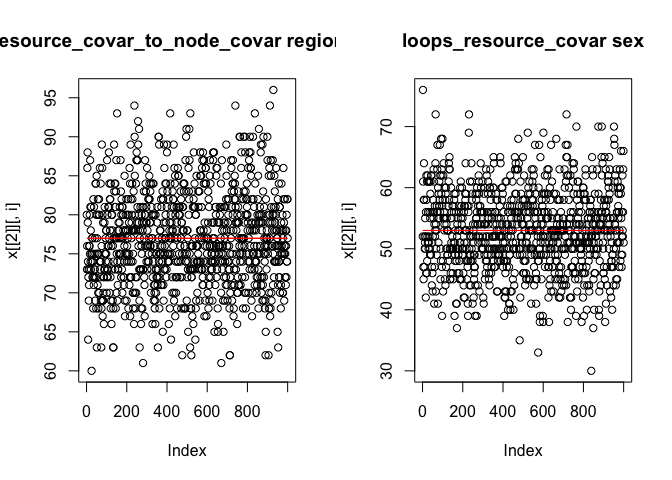
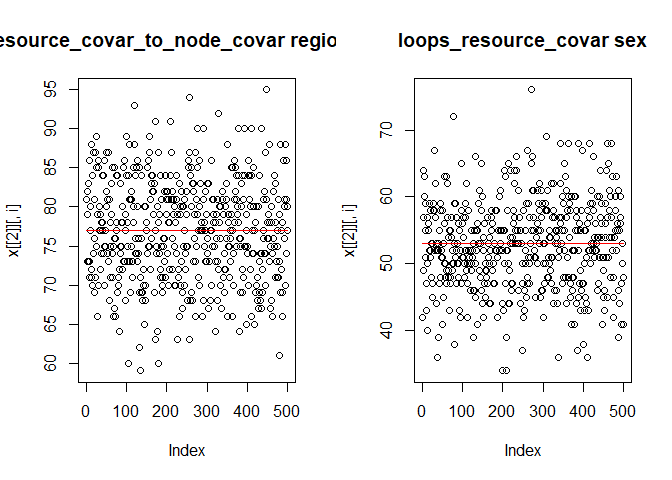
update README

diff --git a/README.md b/README.md
@@ -21,7 +21,7 @@ version](https://osf.io/preprints/socarxiv/n86rx/).
 
 The model allows for the analysis of emergent structures (known from
 network analysis) in mobility tables, alongside exogenous predictors. It
-combined features from classical log-linear models for mobility tables
+combines features from classical log-linear models for mobility tables
 and Exponential Random Graph Models (ERGMs). In the absence of emergent
 structures, the models reduces to the former, when ignoring
 characteristics of individuals, it is an ERGM for weighted networks.
@@ -32,7 +32,7 @@ Announcements about workshops etc. can be found
 # Warning!!!
 
 The package is still under development, especially the documentation.
-When using the package you might encounter bugs or errors, or you might
+When using the package, you might encounter bugs or errors, or you might
 not be able to do what you want. In that case please write the package
 maintainer under his institutional email address (requires using
 google).
@@ -49,22 +49,18 @@ remotes::install_github("perblock/MoNAn")
 
 # Example
 
-In this section we outline a simple example with synthetic data stored
+In this section, we outline a simple example with synthetic data stored
 in the MoNAn package.
 
 ``` r
 library(MoNAn)
-
-# packages for parallel computing
-library(snowfall)
-#> Loading required package: snow
 ```
 
 ## The Data
 
 The example case uses synthetic data that represents mobility of 742
 individuals between 17 organisations. The artificial data includes an
-edgelist, i.e. a list of origins (column 1) and destinations (column 2)
+edgelist, i.e., a list of origins (column 1) and destinations (column 2)
 of all individuals sorted by origin.
 
 ``` r
@@ -248,82 +244,10 @@ myResDN <- estimateMobilityNetwork(
   returnDeps = T,
   fish = F
 )
-#> Starting phase 1
-#> Starting burn-in with 12614 steps
-#> ........................
-#> Starting phase 2
-#> R Version:  R version 4.3.1 (2023-06-16)
-#> snowfall 1.84-6.2 initialized (using snow 0.4-4): parallel execution on 4 CPUs.
-#> Library MoNAn loaded.
-#> Library MoNAn loaded in cluster.
-#> Starting sub phase 1 
-#> New parameters:
-#> loops 
-#>  1.96239947914881 
-#>  reciprocity_min 
-#>  0.5921525719097 
-#>  dyadic_covariate sameRegion 
-#>  1.40049574029235 
-#>  alter_covariate size 
-#>  0.033007136338196 
-#>  resource_covar_to_node_covar region sex 
-#>  -0.552542320949847 
-#>  loops_resource_covar sex 
-#>  0.0129469964664311 
-#> Starting sub phase 2 
-#> New parameters:
-#> loops 
-#>  2.39723742802551 
-#>  reciprocity_min 
-#>  0.735171317280412 
-#>  dyadic_covariate sameRegion 
-#>  1.59953402045278 
-#>  alter_covariate size 
-#>  0.0341741994300065 
-#>  resource_covar_to_node_covar region sex 
-#>  -0.615722236162676 
-#>  loops_resource_covar sex 
-#>  -0.258349863937289 
-#> Starting sub phase 3 
-#> New parameters:
-#> loops 
-#>  2.52006155407795 
-#>  reciprocity_min 
-#>  0.782692703309321 
-#>  dyadic_covariate sameRegion 
-#>  1.66117156519656 
-#>  alter_covariate size 
-#>  0.0360495088741273 
-#>  resource_covar_to_node_covar region sex 
-#>  -0.6380053370706 
-#>  loops_resource_covar sex 
-#>  -0.322942579704397 
-#> Starting sub phase 4 
-#> New parameters:
-#> loops 
-#>  2.55831223642456 
-#>  reciprocity_min 
-#>  0.801052602801524 
-#>  dyadic_covariate sameRegion 
-#>  1.67900023443131 
-#>  alter_covariate size 
-#>  0.0378054612771427 
-#>  resource_covar_to_node_covar region sex 
-#>  -0.643234381003142 
-#>  loops_resource_covar sex 
-#>  -0.348498091145485
-#> 
-#> Stopping cluster
-#> Starting phase 3
-#> snowfall 1.84-6.2 initialized (using snow 0.4-4): parallel execution on 4 CPUs.
-#> Library MoNAn loaded.
-#> Library MoNAn loaded in cluster.
-#> 
-#> Stopping cluster
 ```
 
-In case a pseudo-likelihood estimates have been obtained previously,
-this can be specified by
+In case pseudo-likelihood estimates have been obtained previously, this
+can be specified by
 
 ``` r
 myResDN <- estimateMobilityNetwork(
@@ -342,7 +266,7 @@ estimates), another run is necessary.
 
 ``` r
 max(abs(myResDN$convergenceStatistics))
-#> [1] 0.06165639
+#> [1] 0.1158889
 ```
 
 If convergence is too high, update algorithm, re-run estimation with
@@ -362,39 +286,12 @@ myResDN <- estimateMobilityNetwork(
   returnDeps = T,
   fish = F
 )
-#> skipping phase 1 and taking values from prevAns
-#> Starting phase 2
-#> snowfall 1.84-6.2 initialized (using snow 0.4-4): parallel execution on 4 CPUs.
-#> Library MoNAn loaded.
-#> Library MoNAn loaded in cluster.
-#> Starting sub phase 1 
-#> New parameters:
-#> loops 
-#>  2.57401586997664 
-#>  reciprocity_min 
-#>  0.830449011051864 
-#>  dyadic_covariate sameRegion 
-#>  1.69209883761208 
-#>  alter_covariate size 
-#>  0.0369637391202157 
-#>  resource_covar_to_node_covar region sex 
-#>  -0.650002430600979 
-#>  loops_resource_covar sex 
-#>  -0.360896544627875
-#> 
-#> Stopping cluster
-#> Starting phase 3
-#> snowfall 1.84-6.2 initialized (using snow 0.4-4): parallel execution on 4 CPUs.
-#> Library MoNAn loaded.
-#> Library MoNAn loaded in cluster.
-#> 
-#> Stopping cluster
 ```
 
 ``` r
 # check convergence
 max(abs(myResDN$convergenceStatistics))
-#> [1] 0.09751736
+#> [1] 0.1158889
 ```
 
 In case convergence is still poor, updating the algorithm might be
@@ -407,19 +304,19 @@ convergence ratio. All values in the final column should be below 0.1
 myResDN
 #> Results
 #>                                   Effects   Estimates StandardErrors
-#> 1                                   loops  2.57401587     0.18651741
-#> 2                         reciprocity_min  0.83044901     0.17844344
-#> 3             dyadic_covariate sameRegion  1.69209884     0.10998693
-#> 4                    alter_covariate size  0.03696374     0.02426595
-#> 5 resource_covar_to_node_covar region sex -0.65000243     0.17541006
-#> 6                loops_resource_covar sex -0.36089654     0.22183745
-#>    Convergence
-#> 1 -0.005483438
-#> 2 -0.044616791
-#> 3 -0.097517364
-#> 4  0.003780352
-#> 5 -0.021552036
-#> 6 -0.004111089
+#> 1                                   loops  2.55119590     0.16767219
+#> 2                         reciprocity_min  0.80886194     0.17076331
+#> 3             dyadic_covariate sameRegion  1.66660275     0.11099617
+#> 4                    alter_covariate size  0.03613363     0.02307136
+#> 5 resource_covar_to_node_covar region sex -0.64131049     0.16544747
+#> 6                loops_resource_covar sex -0.34885512     0.21719272
+#>   Convergence
+#> 1 -0.08272621
+#> 2 -0.03402212
+#> 3 -0.08645417
+#> 4 -0.11588893
+#> 5 -0.01607496
+#> 6 -0.02259394
 ```
 
 ## Diagnostics of the estimated model
@@ -433,13 +330,13 @@ problematic and indicate that a higher thinning is needed.
 
 ``` r
 autoCorrelationTest(myResDN)
-#> [1] 0.2153447
+#> [1] 0.09344565
 ```
 
 The output of extractTraces indicates the correlation of statistics
 between subsequent draws from the chain in phase 3. The plot should show
-data point randomly scattered around the target line, as shown below. If
-patterns in the traces are discernible, a higher thinning is needed.
+data points randomly scattered around the target line, as shown below.
+If patterns in the traces are discernible, a higher thinning is needed.
 
 ``` r
 traces <- extractTraces(myResDN, myEffects)
@@ -468,7 +365,7 @@ test_ME.2 <- scoreTest(myResDN, myEffects2)
 test_ME.2
 #> Results
 #>            Effects pValuesParametric pValuesNonParametric
-#> 1 transitivity_min      4.727783e-09                    0
+#> 1 transitivity_min      1.149344e-09                    0
 #> 
 #>  Parametric p-values: small = more significant 
 #>  Non-parametric p-values: further away from 0.5 = more significant
